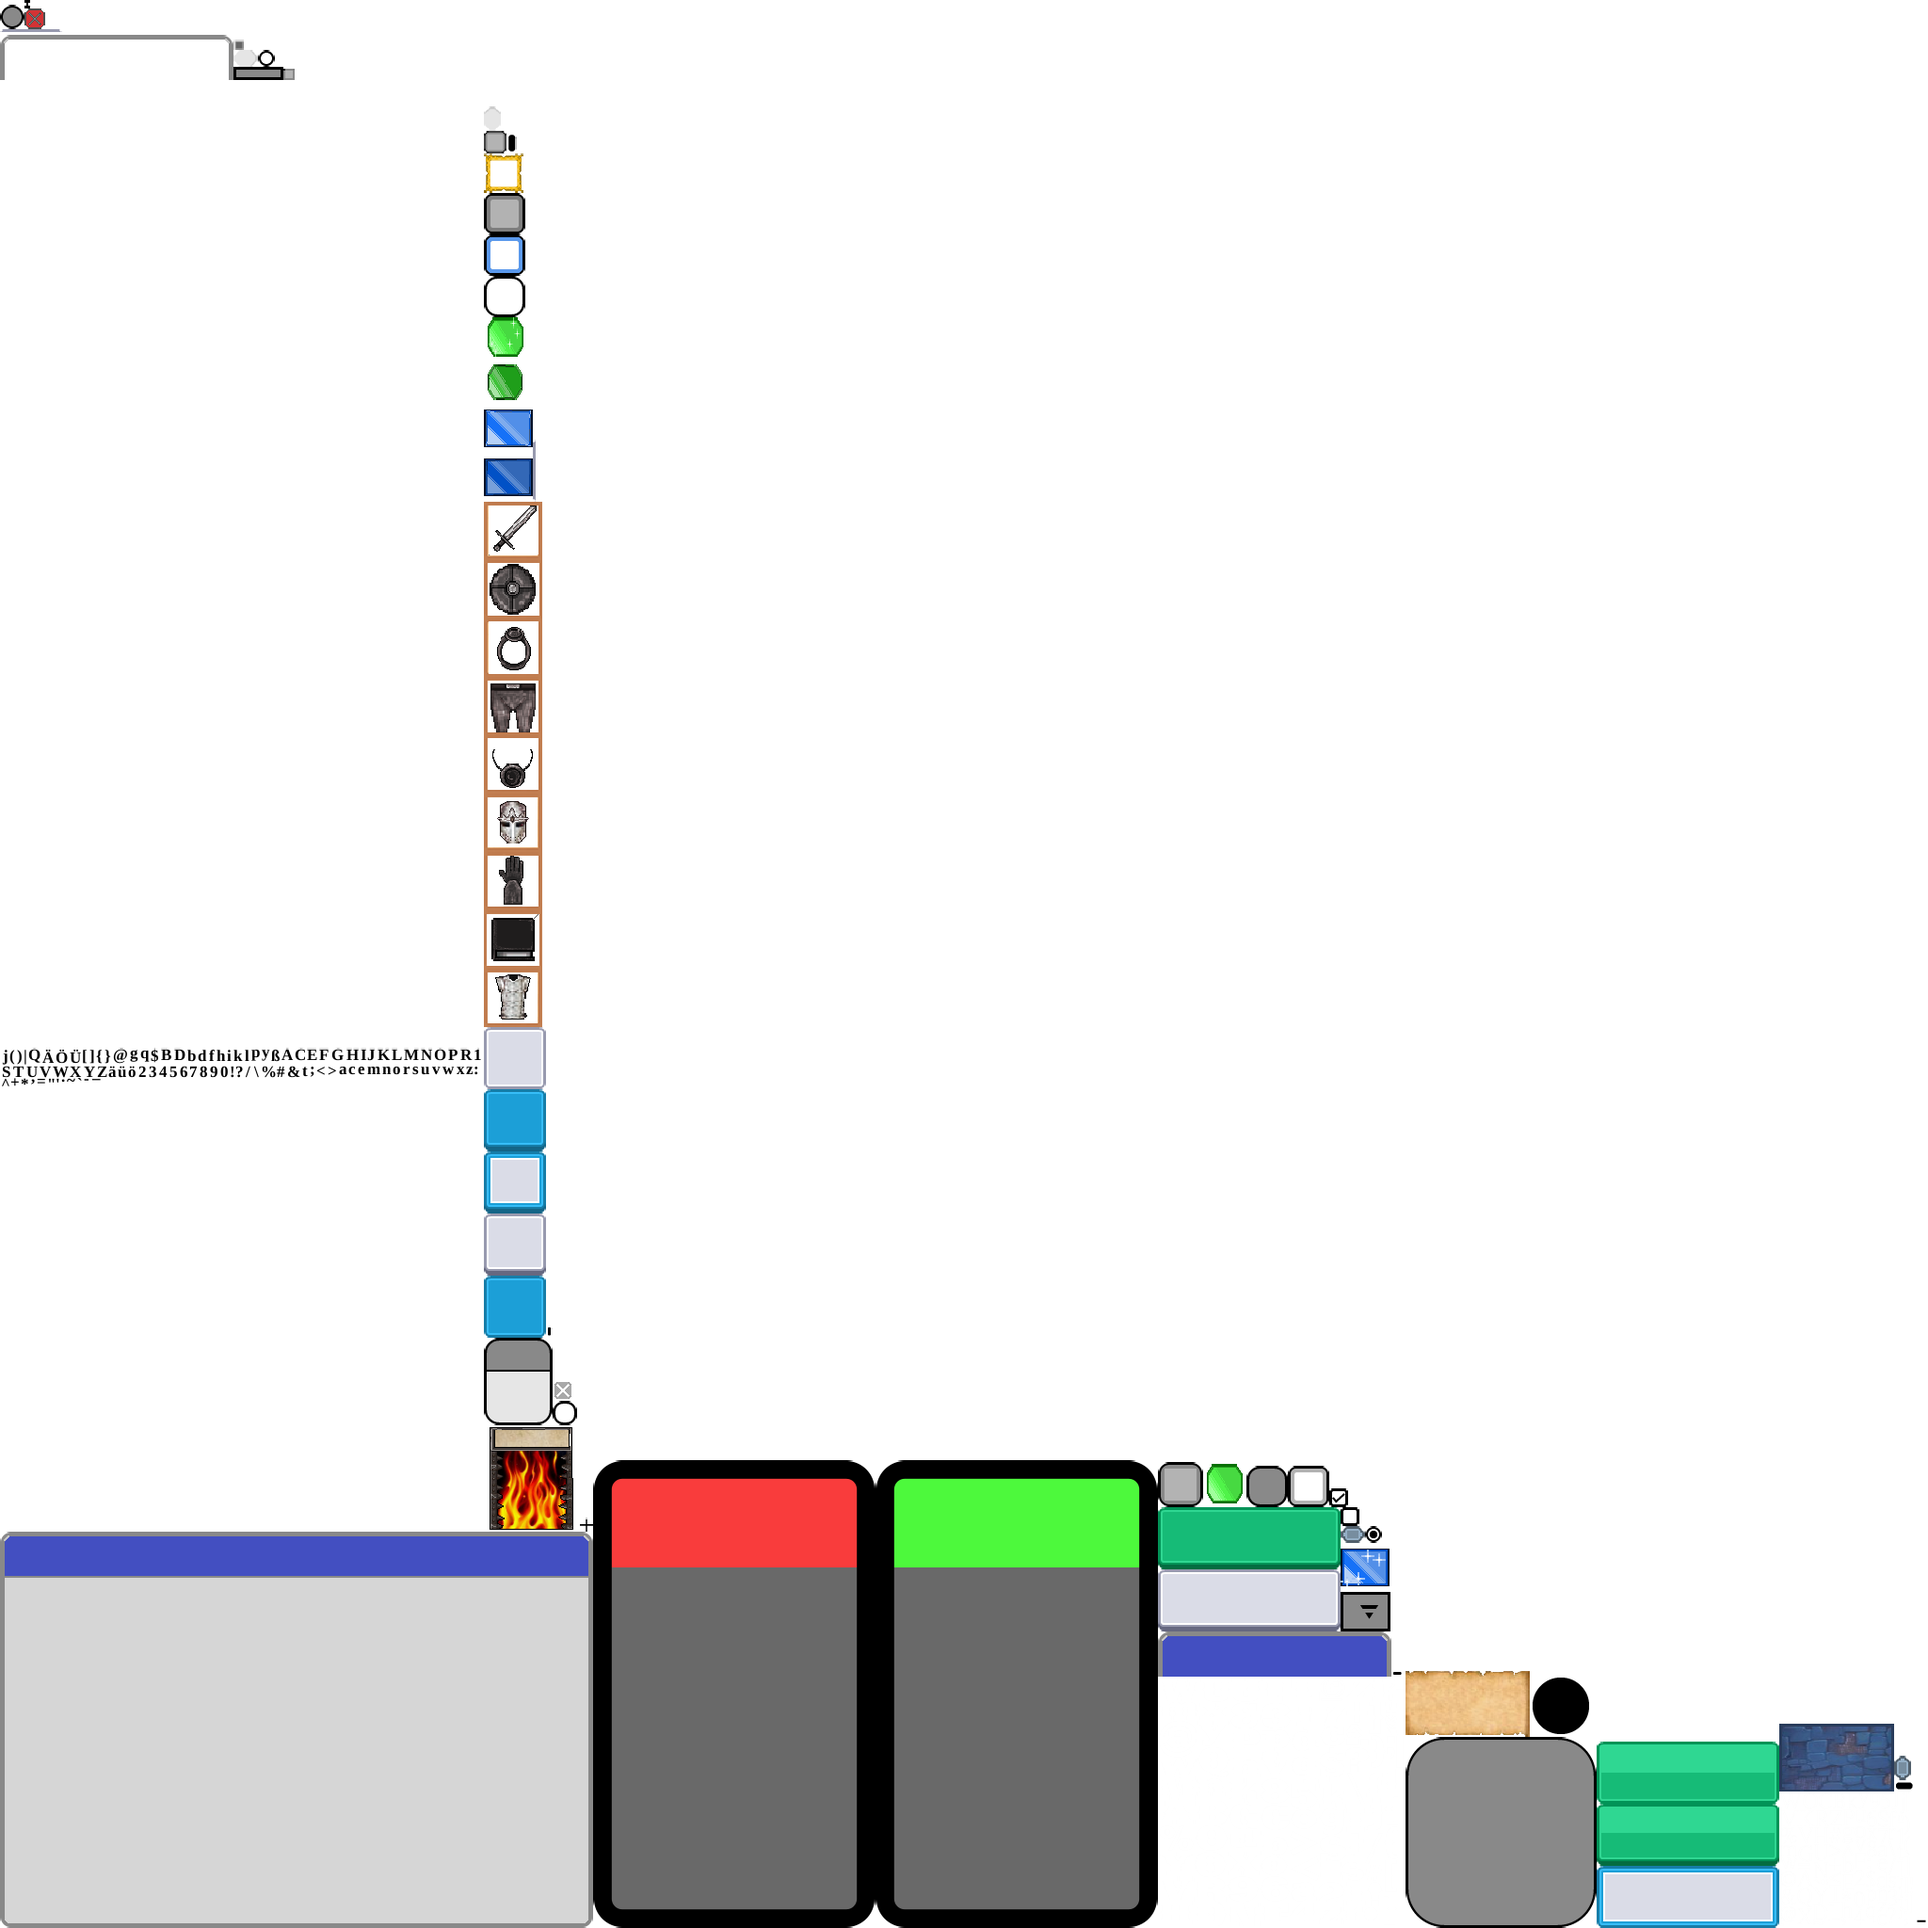
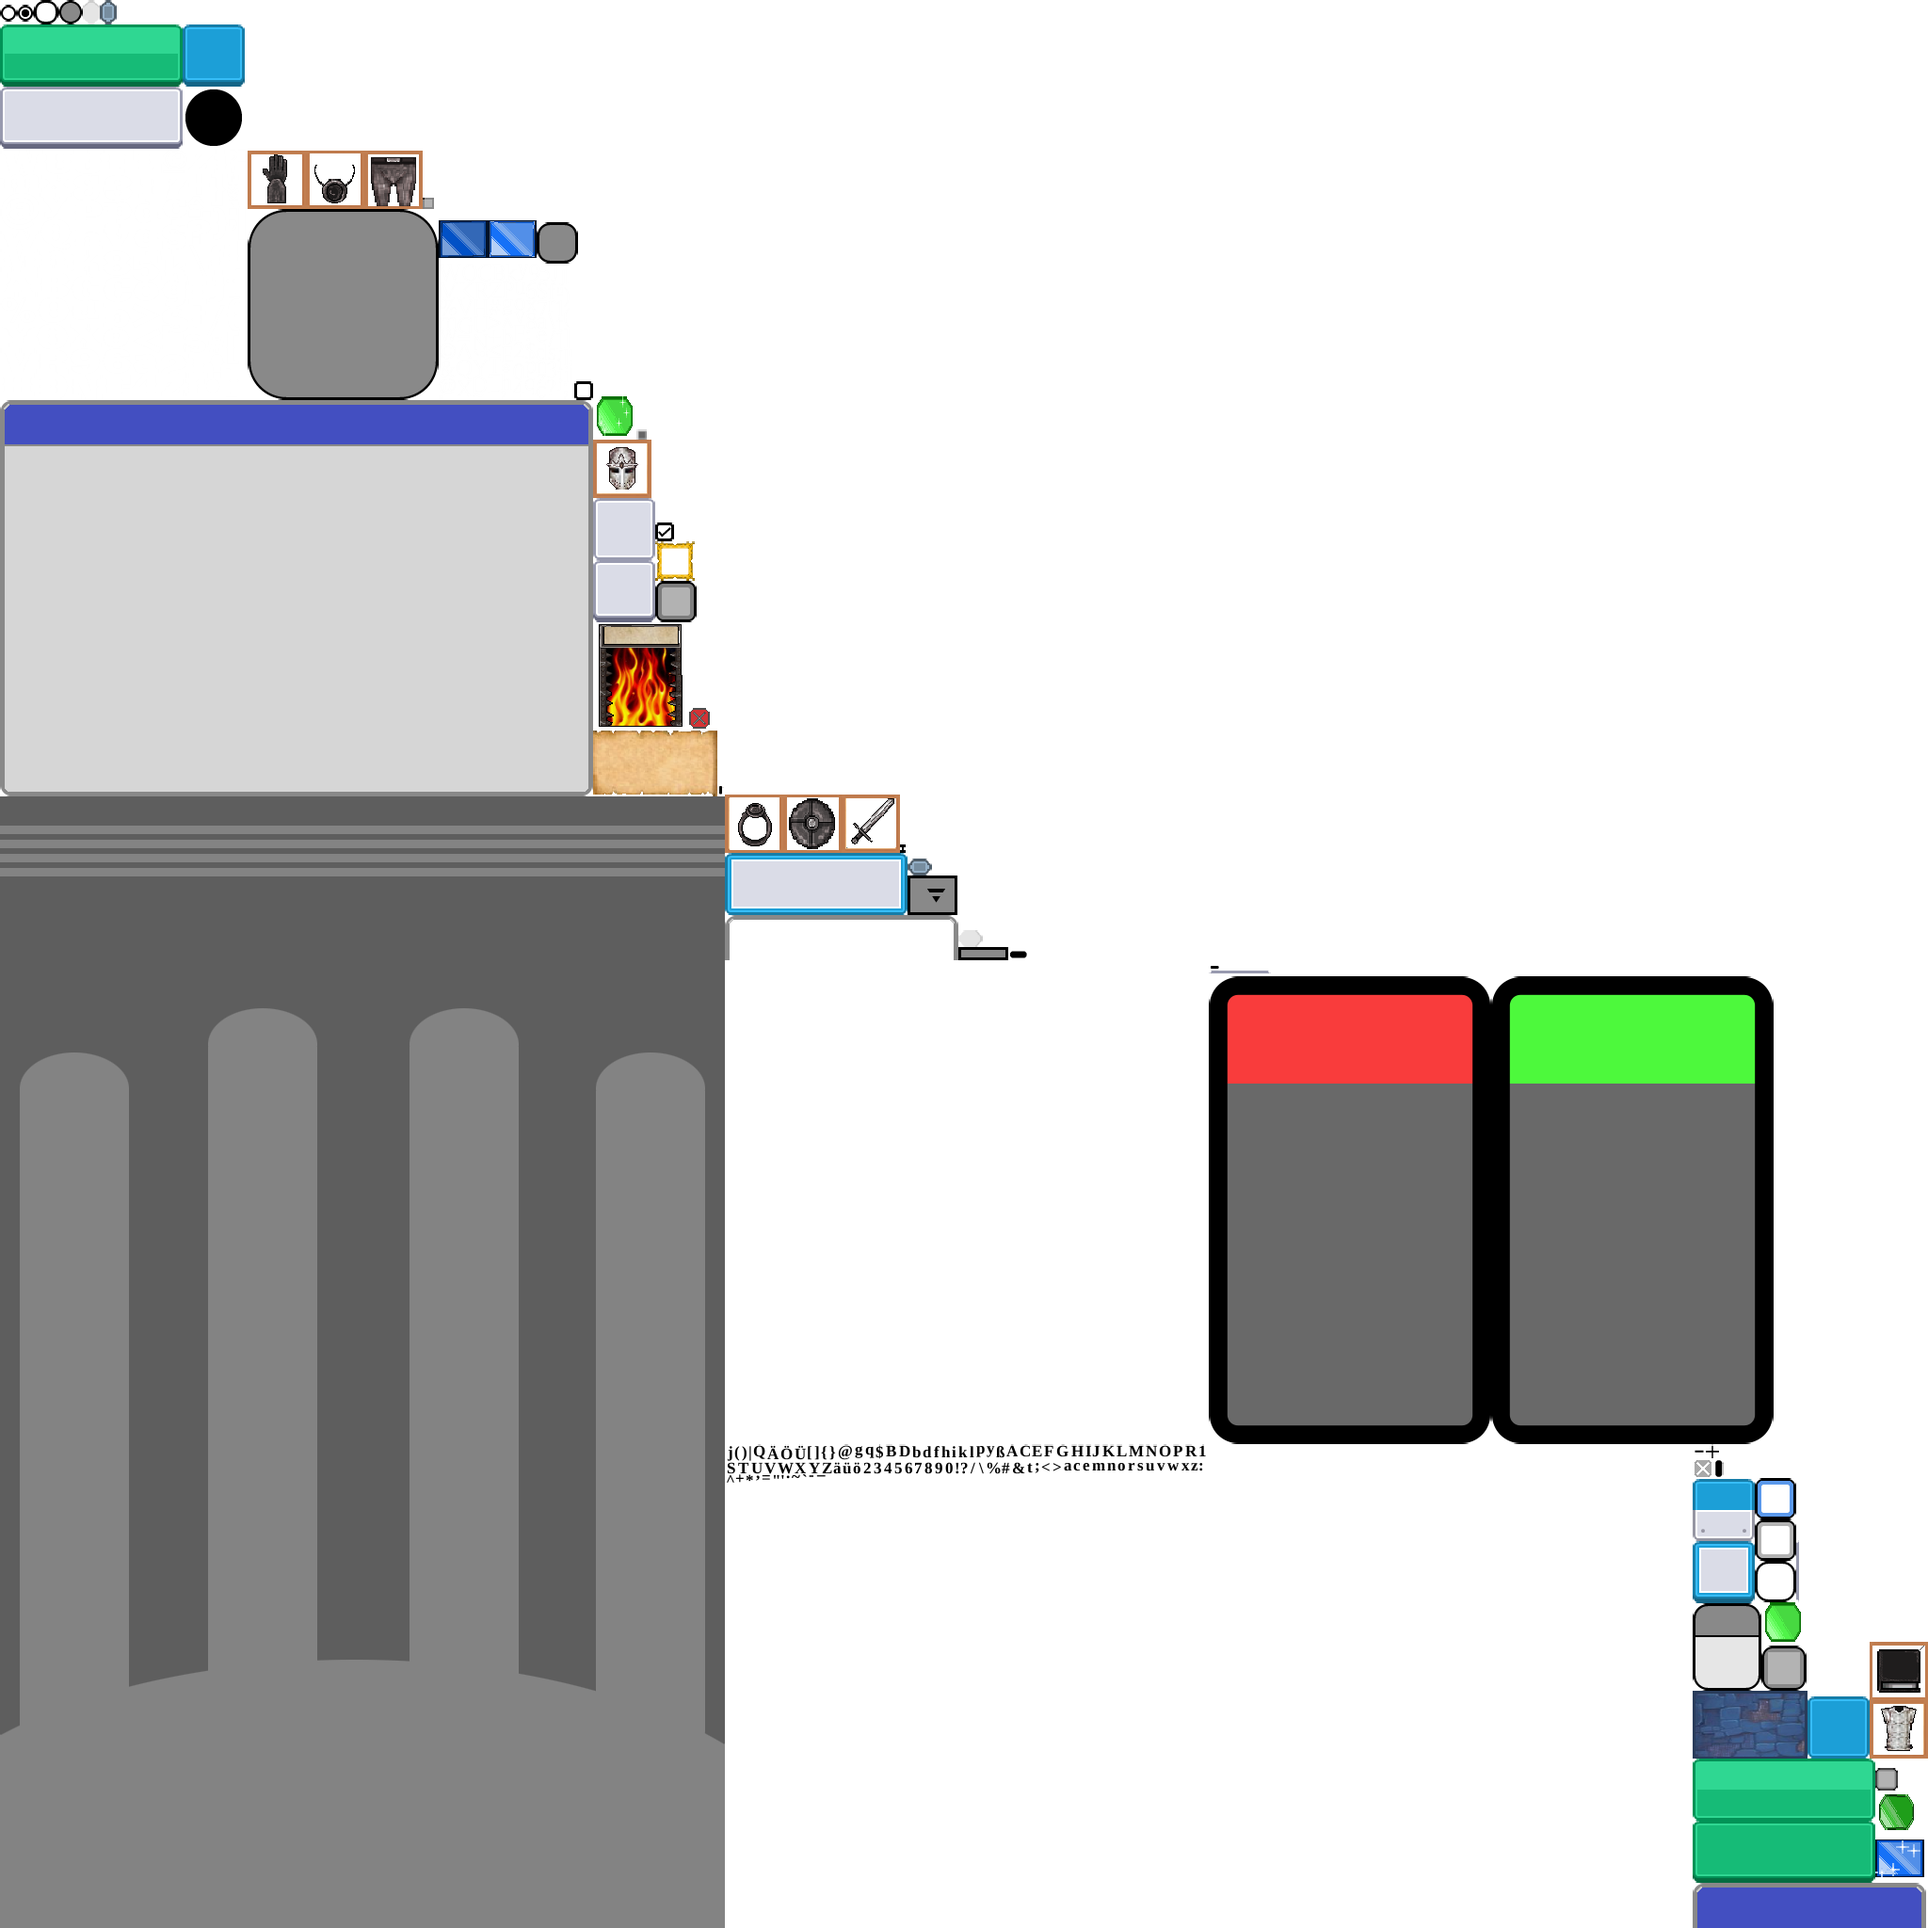
Add some skin components

diff --git a/theLastHourEscapeRoom/src/modules/trash/TrashMinigameUI.java b/theLastHourEscapeRoom/src/modules/trash/TrashMinigameUI.java
@@ -7,6 +7,7 @@ import com.badlogic.gdx.scenes.scene2d.*;
 import com.badlogic.gdx.scenes.scene2d.actions.Actions;
 import com.badlogic.gdx.scenes.scene2d.ui.Image;
 import com.badlogic.gdx.scenes.scene2d.ui.Table;
+import com.badlogic.gdx.scenes.scene2d.utils.TextureRegionDrawable;
 import com.badlogic.gdx.utils.Align;
 import contrib.hud.UIUtils;
 import contrib.hud.dialogs.DialogContext;
